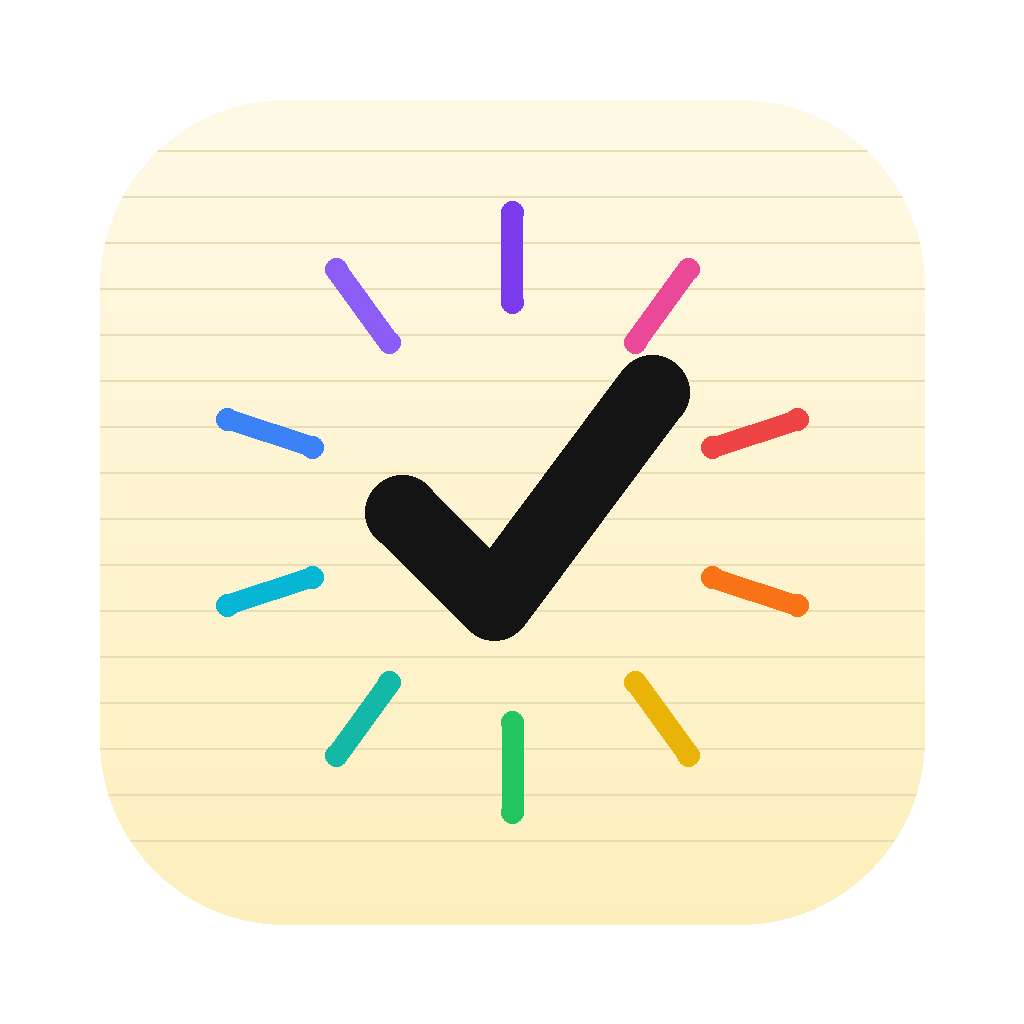
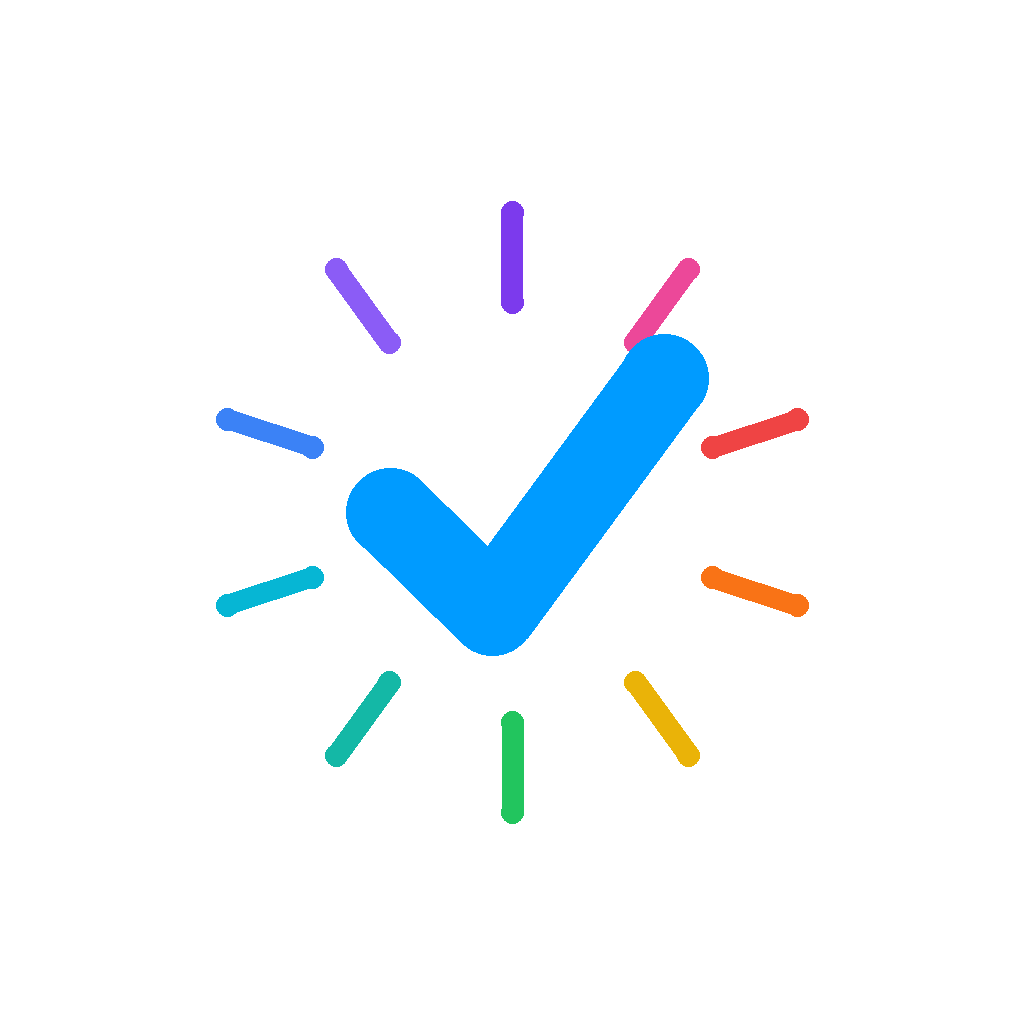
主题色 #009BFF、中英双语（跟随系统语言）、新蓝白图标

diff --git a/index.html b/index.html
@@ -3,14 +3,14 @@
 <head>
 <meta charset="UTF-8">
 <meta name="viewport" content="width=device-width, initial-scale=1.0">
-<title>SideInk — 常驻屏幕边缘的悬浮便签待办</title>
-<meta name="description" content="SideInk 是一款 macOS 悬浮便签待办。鼠标贴边一划就写，随手清空杂念；完成有烟花，让努力被看见。数据只存本地，不登录、不上传、不追踪。">
+<title>SideInk</title>
+<meta name="description" content="SideInk is a floating sticky-note to-do for macOS. Swipe the screen edge to jot, clear your mind, stay focused. Local-only, no login, no tracking.">
 <link rel="icon" href="icon.png">
 <style>
   :root{
     --bg:#ffffff; --soft:#f7f8fa; --soft2:#eef1f5;
     --ink:#0f172a; --ink2:#475569; --ink3:#94a3b8;
-    --line:#e7e9ee; --blue:#0a84ff; --blue-ink:#0064cf; --blue-soft:#eaf4ff;
+    --line:#e7e9ee; --blue:#009BFF; --blue-ink:#0077cc; --blue-soft:#e6f5ff;
     --radius:14px;
   }
   *{box-sizing:border-box;margin:0;padding:0}
@@ -23,31 +23,30 @@
   a{color:inherit;text-decoration:none}
   .wrap{max-width:1080px;margin:0 auto;padding:0 24px}
 
-  /* Nav */
   nav{position:sticky;top:0;z-index:50;background:rgba(255,255,255,.82);backdrop-filter:saturate(180%) blur(14px);border-bottom:1px solid var(--line)}
   .nav-in{display:flex;align-items:center;justify-content:space-between;height:64px}
   .brand{display:flex;align-items:center;gap:11px;font-weight:700;font-size:19px;letter-spacing:-.2px}
-  .brand img{width:34px;height:34px;filter:drop-shadow(0 2px 5px rgba(15,23,42,.18))}
-  .nav-right{display:flex;align-items:center;gap:24px}
+  .brand img{width:34px;height:34px;filter:drop-shadow(0 2px 6px rgba(15,23,42,.16))}
+  .nav-right{display:flex;align-items:center;gap:22px}
   .nav-right a.link{font-size:15px;color:var(--ink2);font-weight:500}
   .nav-right a.link:hover{color:var(--ink)}
+  .lang{font-size:13px;font-weight:600;color:var(--ink2);border:1px solid var(--line);background:var(--bg);border-radius:999px;padding:5px 12px;cursor:pointer;transition:all .15s}
+  .lang:hover{border-color:var(--blue);color:var(--blue)}
   .btn{display:inline-flex;align-items:center;gap:9px;font-weight:600;border-radius:11px;transition:transform .12s,background .15s,box-shadow .15s;cursor:pointer}
-  .btn-primary{background:var(--ink);color:#fff;padding:11px 20px;font-size:15px;box-shadow:0 6px 18px rgba(15,23,42,.18)}
-  .btn-primary:hover{background:#1e293b;transform:translateY(-1px)}
-  .btn-primary img{width:20px;height:20px;border-radius:5px}
-  .nav-right .btn-primary{padding:9px 18px}
+  .btn-primary{background:var(--blue);color:#fff;padding:11px 20px;font-size:15px;box-shadow:0 8px 20px -6px rgba(0,155,255,.5)}
+  .btn-primary:hover{background:var(--blue-ink);transform:translateY(-1px)}
+  .btn-primary img{width:20px;height:20px;border-radius:5px;background:#fff}
+  .nav-right .btn-primary{padding:9px 16px}
 
-  /* Hero */
   .hero{display:grid;grid-template-columns:1fr 1.05fr;gap:56px;align-items:center;padding:76px 0 84px}
   .hero h1{font-size:52px;line-height:1.1;letter-spacing:-1.2px;font-weight:800}
-  .hero .sub{margin-top:22px;font-size:19px;line-height:1.6;color:var(--ink2);max-width:26em}
+  .hero .sub{margin-top:22px;font-size:19px;line-height:1.6;color:var(--ink2);max-width:27em}
   .hero-cta{margin-top:34px;display:flex;align-items:center;gap:16px;flex-wrap:wrap}
   .hero-cta .btn-primary{padding:14px 26px;font-size:16px}
-  .trust{margin-top:20px;display:flex;align-items:center;gap:16px;flex-wrap:wrap;font-size:13px;color:var(--ink3)}
+  .trust{margin-top:20px;display:flex;align-items:center;gap:14px;flex-wrap:wrap;font-size:13px;color:var(--ink3)}
   .trust b{color:var(--ink2);font-weight:600}
   .trust .dot{width:3px;height:3px;border-radius:50%;background:var(--ink3)}
 
-  /* 演示窗（干净桌面帧）*/
   .stage{position:relative;width:100%;max-width:600px;aspect-ratio:16/11;margin-left:auto;
     overflow:hidden;border-radius:18px;box-shadow:0 30px 70px -20px rgba(15,23,42,.35),0 0 0 1px rgba(15,23,42,.06)}
   .screen{position:absolute;inset:0;overflow:hidden;background:linear-gradient(150deg,#334155,#475569 45%,#94a3b8)}
@@ -77,14 +76,12 @@
   @keyframes blink{50%{opacity:0}}
   .spark{position:absolute;border-radius:50%;pointer-events:none;z-index:20}
 
-  /* Section */
   .section{padding:76px 0}
   .section.soft{background:var(--soft);border-top:1px solid var(--line);border-bottom:1px solid var(--line)}
   .sec-head{text-align:center;max-width:34em;margin:0 auto 52px}
   .sec-head h2{font-size:34px;letter-spacing:-.6px;font-weight:800}
   .sec-head p{margin-top:12px;font-size:17px;color:var(--ink2)}
 
-  /* Features */
   .features{display:grid;grid-template-columns:repeat(2,1fr);gap:24px}
   .feature{background:var(--bg);border:1px solid var(--line);border-radius:18px;padding:30px 30px 32px;
     opacity:0;transform:translateY(18px);transition:opacity .5s ease,transform .5s cubic-bezier(.2,.7,.2,1)}
@@ -94,8 +91,7 @@
   .feature h3{font-size:19px;font-weight:700;letter-spacing:-.2px}
   .feature p{margin-top:9px;font-size:15px;color:var(--ink2);line-height:1.6}
 
-  /* 隐私信任带 */
-  .privacy{display:flex;align-items:center;gap:26px;max-width:760px;margin:0 auto;flex-wrap:wrap;justify-content:center;text-align:center}
+  .privacy{display:flex;align-items:center;gap:26px;max-width:760px;margin:0 auto;flex-wrap:wrap;justify-content:center}
   .privacy .shield{flex:0 0 auto;width:64px;height:64px;border-radius:18px;background:var(--bg);border:1px solid var(--line);display:flex;align-items:center;justify-content:center;color:var(--blue)}
   .privacy .shield svg{width:32px;height:32px;stroke:currentColor;fill:none;stroke-width:1.8;stroke-linecap:round;stroke-linejoin:round}
   .privacy .ptxt{text-align:left;min-width:260px;flex:1}
@@ -104,7 +100,6 @@
   .badges{margin-top:14px;display:flex;gap:10px;flex-wrap:wrap}
   .badge{font-size:13px;font-weight:600;color:var(--ink2);background:var(--bg);border:1px solid var(--line);border-radius:999px;padding:6px 13px}
 
-  /* 结尾 CTA */
   .final{text-align:center;padding:96px 0}
   .final h2{font-size:40px;letter-spacing:-.8px;font-weight:800}
   .final p{margin-top:14px;font-size:18px;color:var(--ink2)}
@@ -132,28 +127,29 @@
   <div class="wrap nav-in">
     <div class="brand"><img src="icon.png" alt="SideInk"> SideInk</div>
     <div class="nav-right">
-      <a class="link" href="#features">特性</a>
-      <a class="link" href="#privacy">隐私</a>
-      <a class="btn btn-primary" href="#download"><img src="icon.png" alt="">下载</a>
+      <a class="link" href="#features" data-zh="特性" data-en="Features">特性</a>
+      <a class="link" href="#privacy" data-zh="隐私" data-en="Privacy">隐私</a>
+      <button class="lang" id="langBtn" onclick="toggleLang()">EN</button>
+      <a class="btn btn-primary" href="#download"><img src="icon.png" alt=""><span data-zh="下载" data-en="Download">下载</span></a>
     </div>
   </div>
 </nav>
 
-<!-- HERO -->
 <div class="wrap">
   <section class="hero" id="download">
     <div>
-      <h1>想法太快，<br>别让它溜走</h1>
-      <p class="sub">SideInk 是常驻屏幕边缘的悬浮便签。鼠标贴边一划就写，随手清空杂念、专注当下。</p>
+      <h1 data-zh="想法太快，<br>别让它溜走" data-en="Ideas move fast.<br>Don't let them slip.">想法太快，<br>别让它溜走</h1>
+      <p class="sub" data-zh="SideInk 是常驻屏幕边缘的悬浮便签。鼠标贴边一划就写，随手清空杂念、专注当下。"
+         data-en="SideInk is a floating sticky note that lives at your screen's edge. Swipe the edge to jot, clear your mind, and stay focused.">SideInk 是常驻屏幕边缘的悬浮便签。鼠标贴边一划就写，随手清空杂念、专注当下。</p>
       <div class="hero-cta">
         <a class="btn btn-primary" href="https://github.com/linleeeeee/sideink-releases/releases/latest" target="_blank" rel="noopener">
-          <img src="icon.png" alt=""> 下载 for macOS
+          <img src="icon.png" alt=""><span data-zh="下载 for macOS" data-en="Download for macOS">下载 for macOS</span>
         </a>
       </div>
       <div class="trust">
-        <span><b>免费</b></span><span class="dot"></span>
-        <span>支持所有 Mac</span><span class="dot"></span>
-        <span>数据仅存本地</span>
+        <span><b data-zh="免费" data-en="Free">免费</b></span><span class="dot"></span>
+        <span data-zh="支持所有 Mac" data-en="All Macs">支持所有 Mac</span><span class="dot"></span>
+        <span data-zh="数据仅存本地" data-en="Local-only data">数据仅存本地</span>
       </div>
     </div>
 
@@ -170,65 +166,67 @@
   </section>
 </div>
 
-<!-- FEATURES -->
 <div class="section soft" id="features">
   <div class="wrap">
     <div class="sec-head">
-      <h2>为随手记而生</h2>
-      <p>不折腾、不打断——想到就写，写完就走。</p>
+      <h2 data-zh="为随手记而生" data-en="Built for quick capture">为随手记而生</h2>
+      <p data-zh="不折腾、不打断——想到就写，写完就走。" data-en="No friction, no interruption — jot it and go.">不折腾、不打断——想到就写，写完就走。</p>
     </div>
     <div class="features">
       <div class="feature">
         <div class="fi"><svg viewBox="0 0 24 24"><rect x="3" y="4" width="18" height="16" rx="2.5"/><line x1="15" y1="4" x2="15" y2="20"/><polyline points="9 10 11 12 9 14"/></svg></div>
-        <h3>贴边即用</h3>
-        <p>鼠标碰到屏幕右缘，便签滑出；移开自动收起。拉出就能打字，不占地方、不碍眼。</p>
+        <h3 data-zh="贴边即用" data-en="Swipe to summon">贴边即用</h3>
+        <p data-zh="鼠标碰到屏幕右缘，便签滑出；移开自动收起。拉出就能打字，不占地方、不碍眼。"
+           data-en="Touch the right edge and the note slides out; move away and it hides. Type instantly — no clutter.">鼠标碰到屏幕右缘，便签滑出；移开自动收起。拉出就能打字，不占地方、不碍眼。</p>
       </div>
       <div class="feature">
         <div class="fi"><svg viewBox="0 0 24 24"><polyline points="3 6 4.5 7.5 7 5"/><line x1="10" y1="6" x2="21" y2="6"/><polyline points="10 12.5 11.5 14 14 11.5"/><line x1="16" y1="12.5" x2="21" y2="12.5"/><line x1="10" y1="19" x2="21" y2="19"/></svg></div>
-        <h3>两级大纲，自由书写</h3>
-        <p>像写大纲一样列待办，Tab 一键缩进为子项。想清楚了，复制成 Markdown 挪进别处。</p>
+        <h3 data-zh="两级大纲，自由书写" data-en="Two-level outline">两级大纲，自由书写</h3>
+        <p data-zh="像写大纲一样列待办，Tab 一键缩进为子项。想清楚了，复制成 Markdown 挪进别处。"
+           data-en="List todos like an outline; Tab to indent a subtask. Copy as Markdown to move it anywhere.">像写大纲一样列待办，Tab 一键缩进为子项。想清楚了，复制成 Markdown 挪进别处。</p>
       </div>
       <div class="feature">
         <div class="fi"><svg viewBox="0 0 24 24"><path d="M12 3v3M12 18v3M3 12h3M18 12h3M5.6 5.6l2 2M16.4 16.4l2 2M18.4 5.6l-2 2M7.6 16.4l-2 2"/><circle cx="12" cy="12" r="3"/></svg></div>
-        <h3>完成有烟花</h3>
-        <p>勾掉一条就放一束烟花——让每一份小小的努力都被看见。做事这件事，是可以被哄成功的。</p>
+        <h3 data-zh="完成有烟花" data-en="Fireworks on done">完成有烟花</h3>
+        <p data-zh="勾掉一条就放一束烟花——让每一份小小的努力都被看见。做事这件事，是可以被哄成功的。"
+           data-en="Check one off and fireworks burst — every bit of effort gets seen. Doing things can be a celebration.">勾掉一条就放一束烟花——让每一份小小的努力都被看见。做事这件事，是可以被哄成功的。</p>
       </div>
       <div class="feature">
         <div class="fi"><svg viewBox="0 0 24 24"><rect x="4" y="8" width="10" height="12" rx="2"/><path d="M9 8V6a3 3 0 0 1 6 0v2"/><circle cx="9" cy="14" r="1"/><path d="M17 5l4 2v3.5c0 3.5-2.5 6-4 7"/></svg></div>
-        <h3>AI 帮你代劳</h3>
-        <p>「收集资讯」类待办交给 AI：自动汇总多源信息、整理成简报，直接写进你的 Obsidian。</p>
+        <h3 data-zh="AI 帮你代劳" data-en="Let AI do it">AI 帮你代劳</h3>
+        <p data-zh="「收集资讯」类待办交给 AI：自动汇总多源信息、整理成简报，直接写进你的 Obsidian。"
+           data-en="Hand 'collect news' todos to AI: it gathers sources into a brief, straight into your Obsidian.">「收集资讯」类待办交给 AI：自动汇总多源信息、整理成简报，直接写进你的 Obsidian。</p>
       </div>
     </div>
   </div>
 </div>
 
-<!-- 隐私信任 -->
 <div class="section" id="privacy">
   <div class="wrap">
     <div class="privacy">
       <div class="shield"><svg viewBox="0 0 24 24"><path d="M12 2l8 4v5c0 5-3.5 9-8 11-4.5-2-8-6-8-11V6z"/><polyline points="9 12 11 14 15 10"/></svg></div>
       <div class="ptxt">
-        <h3>你的想法，只属于你</h3>
-        <p>所有待办与便签都只存在你自己的电脑上。无需注册登录，不上传服务器，不做任何追踪。</p>
+        <h3 data-zh="你的想法，只属于你" data-en="Your thoughts stay yours">你的想法，只属于你</h3>
+        <p data-zh="所有待办与便签都只存在你自己的电脑上。无需注册登录，不上传服务器，不做任何追踪。"
+           data-en="Everything lives only on your Mac. No sign-up, no upload to any server, no tracking whatsoever.">所有待办与便签都只存在你自己的电脑上。无需注册登录，不上传服务器，不做任何追踪。</p>
         <div class="badges">
-          <span class="badge">本地存储</span>
-          <span class="badge">无需登录</span>
-          <span class="badge">不追踪</span>
-          <span class="badge">AI 用你自己的 Key</span>
+          <span class="badge" data-zh="本地存储" data-en="Local storage">本地存储</span>
+          <span class="badge" data-zh="无需登录" data-en="No login">无需登录</span>
+          <span class="badge" data-zh="不追踪" data-en="No tracking">不追踪</span>
+          <span class="badge" data-zh="AI 用你自己的 Key" data-en="Bring your own AI key">AI 用你自己的 Key</span>
         </div>
       </div>
     </div>
   </div>
 </div>
 
-<!-- 结尾 CTA -->
 <div class="wrap">
   <section class="final">
-    <h2>把杂念腾空，让努力看见。</h2>
-    <p>免费下载，支持所有 Mac，即装即用。</p>
+    <h2 data-zh="把杂念腾空，让努力看见。" data-en="Clear your mind. See your effort.">把杂念腾空，让努力看见。</h2>
+    <p data-zh="免费下载，支持所有 Mac，即装即用。" data-en="Free download. Every Mac. Ready in one click.">免费下载，支持所有 Mac，即装即用。</p>
     <div class="hero-cta">
       <a class="btn btn-primary" href="https://github.com/linleeeeee/sideink-releases/releases/latest" target="_blank" rel="noopener">
-        <img src="icon.png" alt=""> 下载 for macOS
+        <img src="icon.png" alt=""><span data-zh="下载 for macOS" data-en="Download for macOS">下载 for macOS</span>
       </a>
     </div>
   </section>
@@ -238,14 +236,38 @@
   <div class="wrap foot-in">
     <div>© 2026 SideInk · v3.0</div>
     <div class="foot-links">
-      <a href="#features">特性</a>
-      <a href="#privacy">隐私</a>
-      <a href="#download">下载</a>
+      <a href="#features" data-zh="特性" data-en="Features">特性</a>
+      <a href="#privacy" data-zh="隐私" data-en="Privacy">隐私</a>
+      <a href="#download" data-zh="下载" data-en="Download">下载</a>
     </div>
   </div>
 </footer>
 
 <script>
+/* 中英双语：默认跟随系统语言 */
+function applyLang(lang){
+  const en = lang === 'en';
+  document.documentElement.lang = en ? 'en' : 'zh-CN';
+  document.querySelectorAll('[data-zh]').forEach(el=>{
+    el.innerHTML = en ? el.getAttribute('data-en') : el.getAttribute('data-zh');
+  });
+  document.title = en ? 'SideInk — floating sticky-note to-do for macOS' : 'SideInk — 常驻屏幕边缘的悬浮便签待办';
+  const btn = document.getElementById('langBtn');
+  if(btn) btn.textContent = en ? '中' : 'EN';
+  try{ localStorage.setItem('lang', lang); }catch(e){}
+}
+function toggleLang(){
+  const cur = (document.documentElement.lang === 'en') ? 'en' : 'zh';
+  applyLang(cur === 'en' ? 'zh' : 'en');
+}
+(function(){
+  let lang;
+  try{ lang = localStorage.getItem('lang'); }catch(e){}
+  if(!lang){ lang = (navigator.language||'').toLowerCase().startsWith('zh') ? 'zh' : 'en'; }
+  applyLang(lang);
+})();
+
+/* 演示动画 */
 (function(){
   const rows = document.getElementById('demoRows');
   const panel = document.getElementById('demoPanel');
@@ -253,6 +275,17 @@
   if(!rows) return;
   const COLORS = ['#009BFF','#7c3aed','#16a34a','#eab308','#f97316','#ef4444','#ec4899','#06b6d4','#00c2a8','#ff5da2'];
   const sleep = ms => new Promise(r=>setTimeout(r,ms));
+  const enMode = () => document.documentElement.lang === 'en';
+  const T = {
+    a:['研究心理-行为相关理论','Study behavior psychology'],
+    b:['做个网站，放我的产品','Build a site for my product'],
+    c:['买域名和服务器','Buy domain & hosting'],
+    d:['设计页面布局','Design the layout'],
+    e:['收集最新 AI 行业资讯','Collect latest AI news'],
+    f:['旅游物品准备','Pack for the trip'],
+    g:['给白白换猫砂盆','Change the cat litter']
+  };
+  const tx = k => enMode() ? T[k][1] : T[k][0];
   function makeRow(level){
     const row = document.createElement('div');
     row.className = 'demo-row' + (level ? ' sub' : '');
@@ -268,11 +301,7 @@
     for(const ch of text){ caret.insertAdjacentText('beforebegin', ch); await sleep(48 + Math.random()*42); }
     caret.remove();
   }
-  function localPos(el){
-    let x = 0, y = 0, n = el;
-    while(n && n !== panel){ x += n.offsetLeft; y += n.offsetTop; n = n.offsetParent; }
-    return { x: x + el.offsetWidth/2, y: y + el.offsetHeight/2 };
-  }
+  function localPos(el){ let x=0,y=0,n=el; while(n&&n!==panel){x+=n.offsetLeft;y+=n.offsetTop;n=n.offsetParent;} return {x:x+el.offsetWidth/2,y:y+el.offsetHeight/2}; }
   function burst(cb){
     const c = localPos(cb), N = 30;
     for(let i=0;i<N;i++){
@@ -282,39 +311,34 @@
       s.style.left = c.x + 'px'; s.style.top = c.y + 'px';
       panel.appendChild(s);
       const ang = (i/N)*Math.PI*2 + Math.random()*0.3, dist = 40 + Math.random()*70;
-      requestAnimationFrame(()=>{
-        s.style.transition = 'transform .85s cubic-bezier(.15,.6,.3,1), opacity .85s ease-out';
-        s.style.transform = `translate(${Math.cos(ang)*dist}px, ${Math.sin(ang)*dist + 18}px)`;
-        s.style.opacity = '0';
-      });
+      requestAnimationFrame(()=>{ s.style.transition='transform .85s cubic-bezier(.15,.6,.3,1), opacity .85s ease-out'; s.style.transform=`translate(${Math.cos(ang)*dist}px, ${Math.sin(ang)*dist+18}px)`; s.style.opacity='0'; });
       setTimeout(()=>s.remove(), 900);
     }
   }
   function check(cell){ cell.cb.classList.add('done'); cell.cb.textContent='✓'; cell.t.classList.add('done'); burst(cell.cb); }
   function reset(){ panel.classList.remove('out'); cursor.style.opacity='1'; cursor.style.left='40%'; cursor.style.top='54%'; rows.innerHTML=''; }
-
   async function run(){
     while(true){
       reset(); await sleep(1000);
       cursor.style.left='97%'; cursor.style.top='48%'; await sleep(1150);
       panel.classList.add('out'); await sleep(300); cursor.style.opacity='0'; await sleep(560);
-      const a = makeRow(0); await sleep(160); await type(a.t,'研究心理-行为相关理论'); await sleep(460); check(a); await sleep(880);
-      const b = makeRow(0); await sleep(150); await type(b.t,'做个网站，放我的产品'); await sleep(380);
-      const c = makeRow(1); await sleep(120); await type(c.t,'买域名和服务器'); await sleep(340);
-      const d = makeRow(1); await sleep(120); await type(d.t,'设计页面布局'); await sleep(430); check(d); await sleep(950);
-      const e = makeRow(0); await sleep(150); await type(e.t,'收集最新 AI 行业资讯'); await sleep(900);
+      const a=makeRow(0); await sleep(160); await type(a.t,tx('a')); await sleep(460); check(a); await sleep(880);
+      const b=makeRow(0); await sleep(150); await type(b.t,tx('b')); await sleep(380);
+      const c=makeRow(1); await sleep(120); await type(c.t,tx('c')); await sleep(340);
+      const d=makeRow(1); await sleep(120); await type(d.t,tx('d')); await sleep(430); check(d); await sleep(950);
+      const e=makeRow(0); await sleep(150); await type(e.t,tx('e')); await sleep(900);
       panel.classList.remove('out'); await sleep(1300);
       cursor.style.transition='none'; cursor.style.left='84%'; cursor.style.top='60%'; cursor.style.opacity='1'; await sleep(40);
       cursor.style.transition=''; cursor.style.left='97%'; cursor.style.top='50%'; await sleep(950);
       panel.classList.add('out'); await sleep(320); cursor.style.opacity='0'; await sleep(560);
-      const f = makeRow(0); await sleep(150); await type(f.t,'旅游物品准备'); await sleep(520);
-      const g = makeRow(0); await sleep(150); await type(g.t,'给白白换猫砂盆'); await sleep(470); check(g); await sleep(2000);
+      const f=makeRow(0); await sleep(150); await type(f.t,tx('f')); await sleep(520);
+      const g=makeRow(0); await sleep(150); await type(g.t,tx('g')); await sleep(470); check(g); await sleep(2000);
     }
   }
   run();
 })();
 
-/* 滚动进入视口时特性卡片淡入 */
+/* 特性卡淡入 */
 (function(){
   const cards = document.querySelectorAll('.feature');
   if(!('IntersectionObserver' in window)){ cards.forEach(c=>c.classList.add('in')); return; }